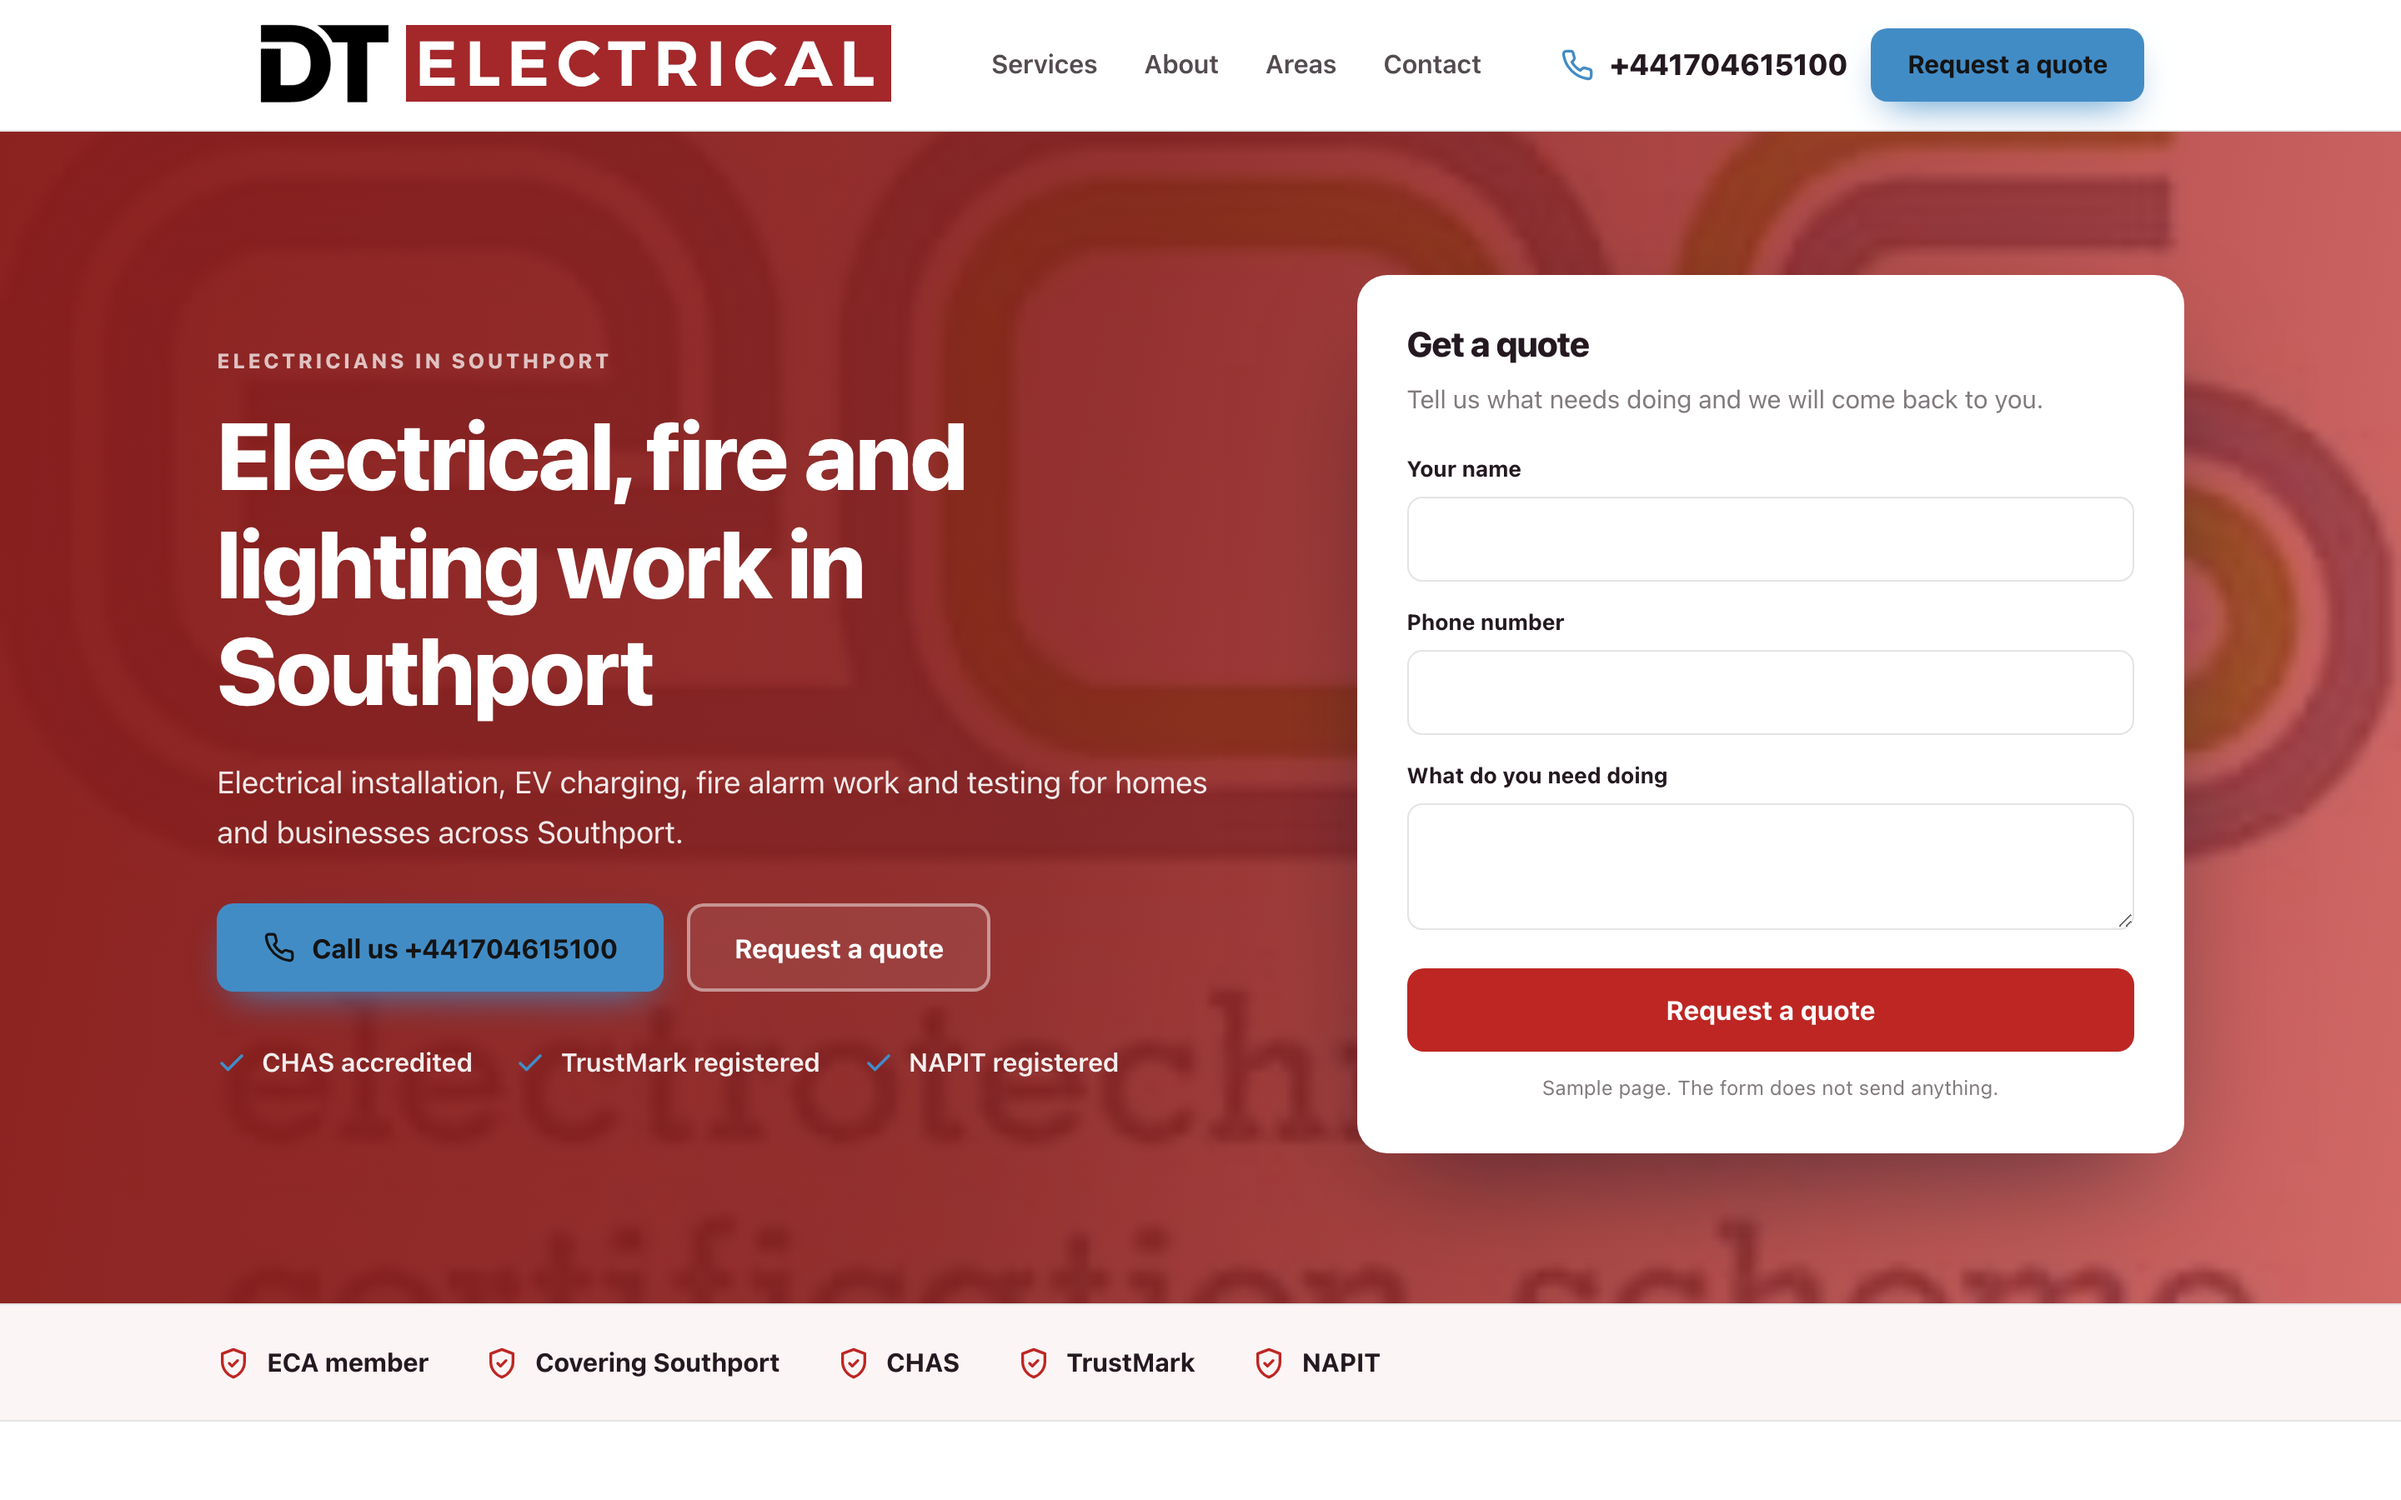
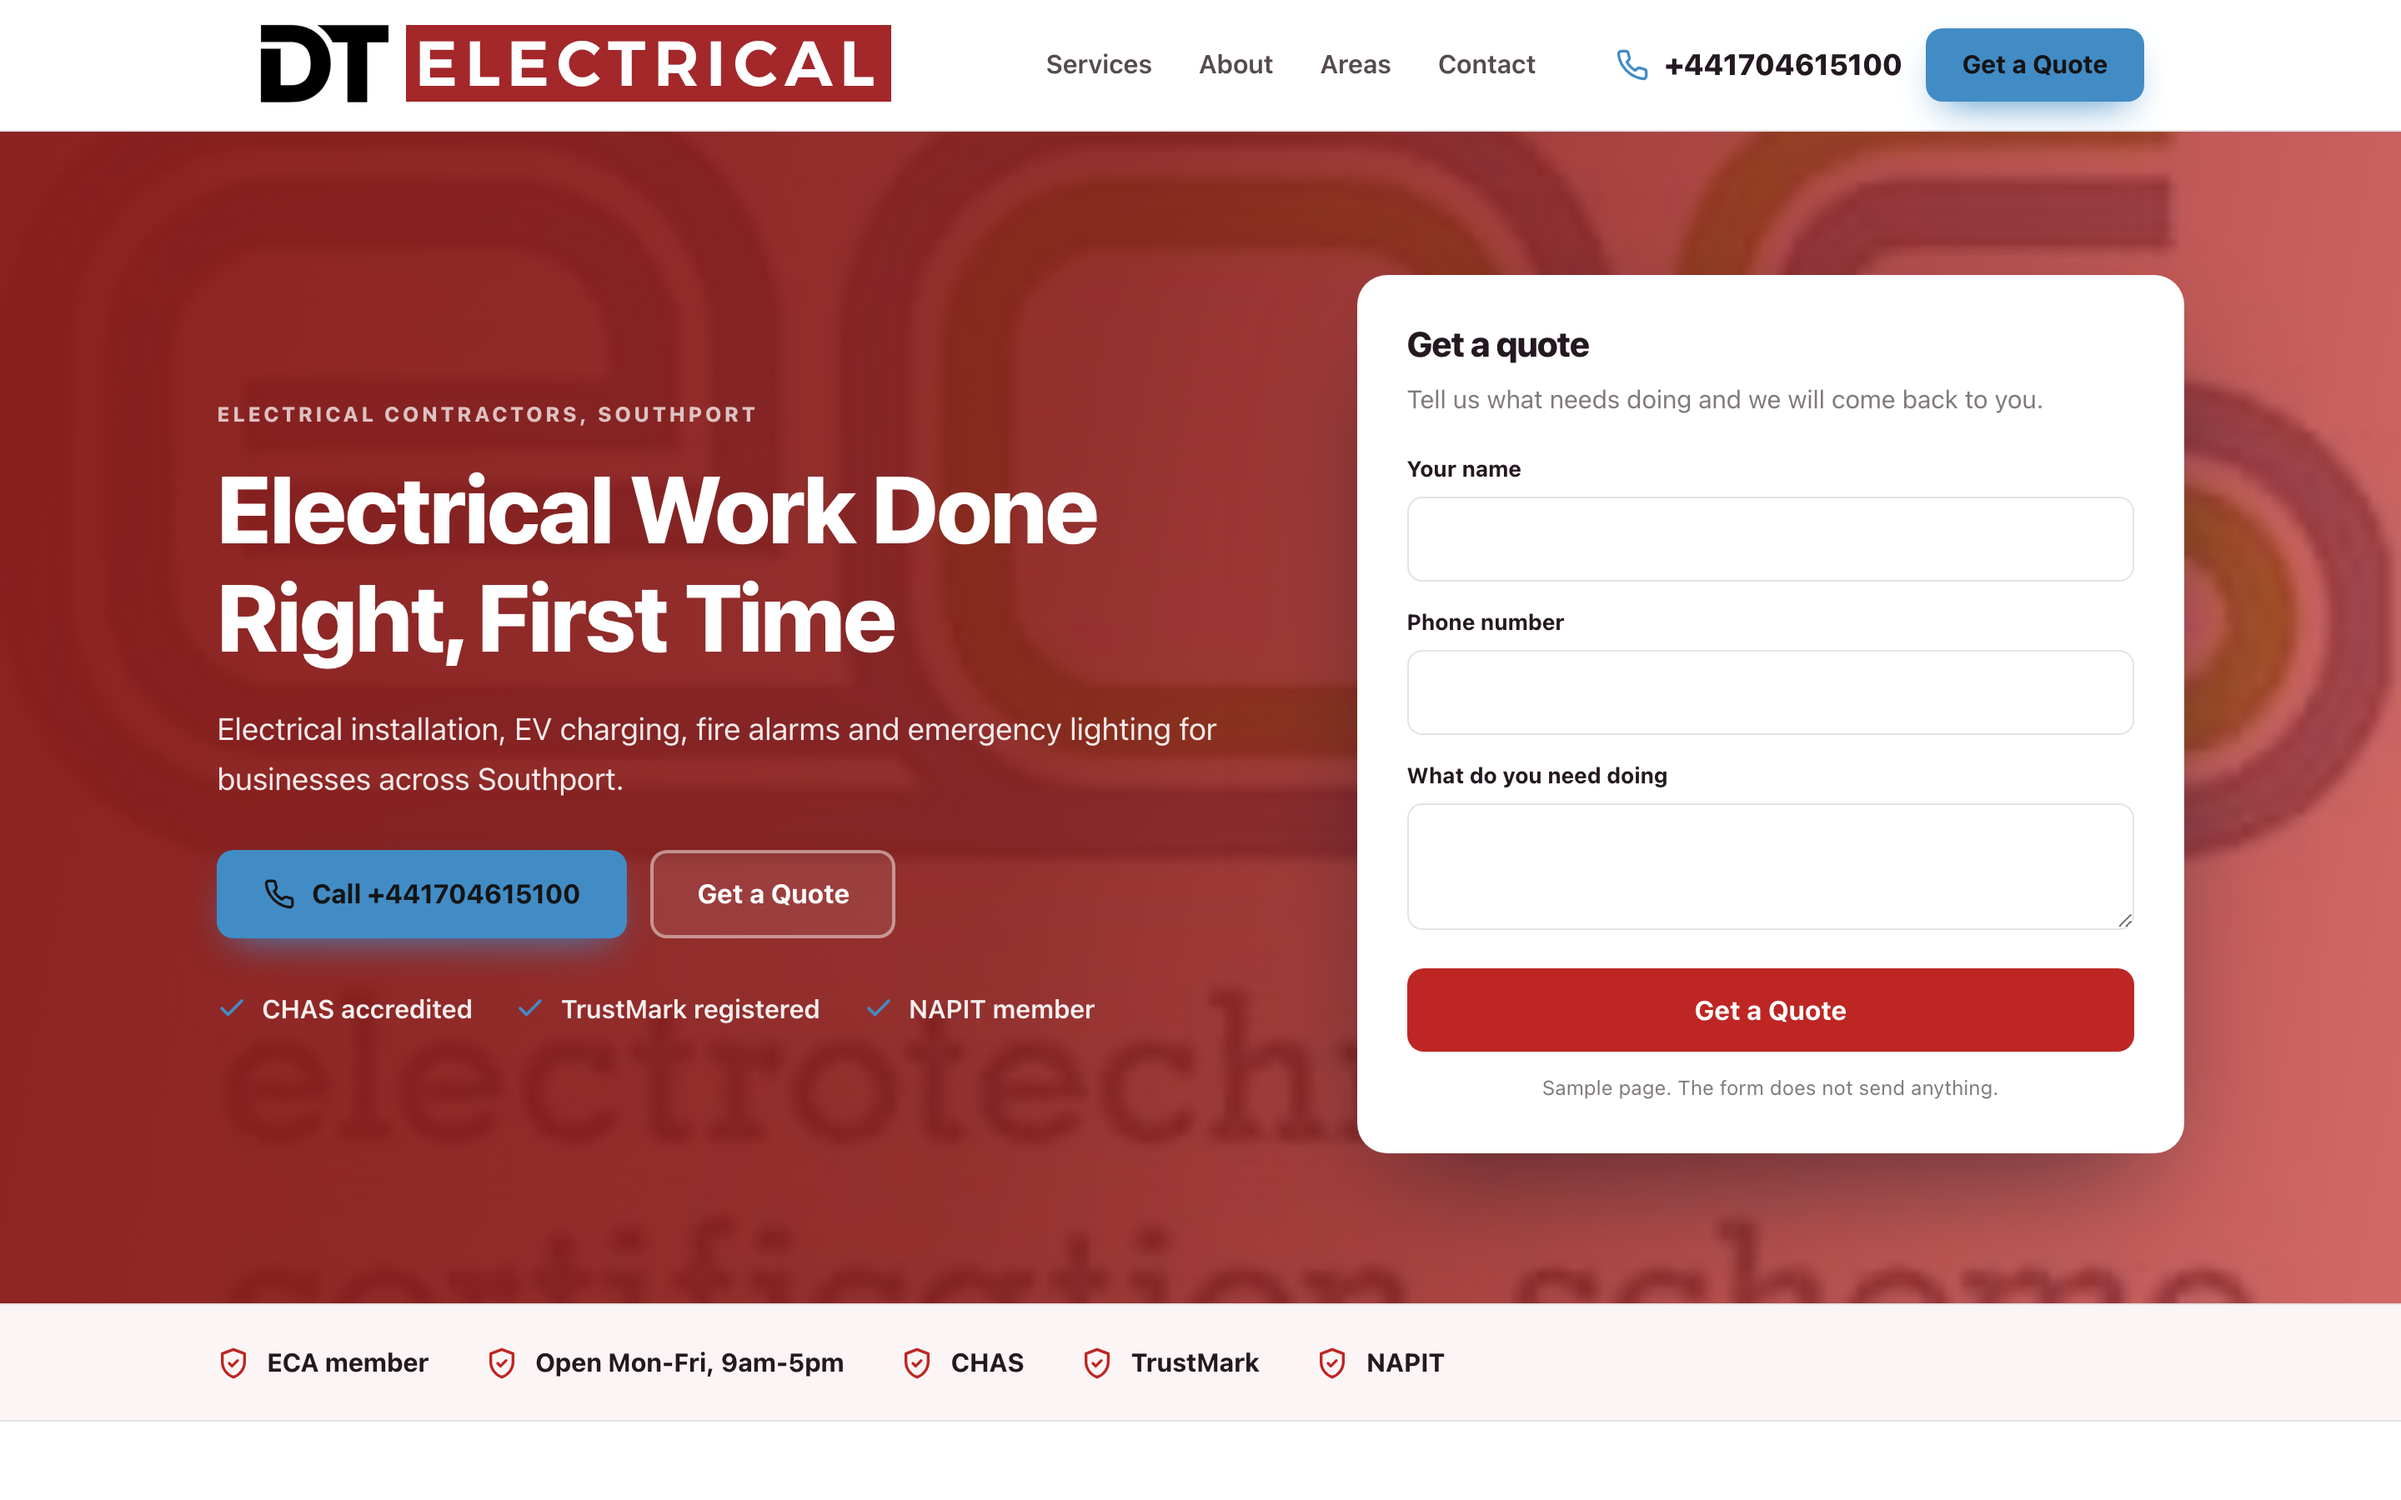
Sample homepage for DT Electrical

diff --git a/docs/f1c80b9496/index.html b/docs/f1c80b9496/index.html
@@ -4,14 +4,15 @@
 <meta charset="utf-8">
 <meta name="viewport" content="width=device-width, initial-scale=1">
 <meta name="robots" content="noindex,nofollow">
+<meta name="aso-build" content="">
 <title>DT Electrical sample homepage</title>
-<meta name="description" content="Electrical installation, EV charging, fire alarm work and testing for homes and businesses across Southport.">
+<meta name="description" content="Electrical installation, EV charging, fire alarms and emergency lighting for businesses across Southport.">
 <link rel="canonical" href="https://markygff.github.io/aso-mockups/f1c80b9496/">
 <meta property="og:type" content="website">
 <meta property="og:title" content="DT Electrical sample homepage">
-<meta property="og:description" content="Electrical installation, EV charging, fire alarm work and testing for homes and businesses across Southport.">
+<meta property="og:description" content="Electrical installation, EV charging, fire alarms and emergency lighting for businesses across Southport.">
 <meta property="og:url" content="https://markygff.github.io/aso-mockups/f1c80b9496/">
-<meta property="og:image" content="https://www.dtelectrical.net/assets/images/1.jpg"><style>
+<meta property="og:image" content="img/t00.jpg"><style>
 :root{
   --primary:#bd2623;
   --primary-dark:#881b19;
@@ -52,7 +53,8 @@ p{margin:0}
 .nav{display:flex;gap:28px;margin-left:auto;font-weight:600;font-size:.97rem;color:var(--ink)}
 .nav span{opacity:.78}
 .header-cta{display:flex;align-items:center;gap:14px;margin-left:28px}
-.tel{display:flex;align-items:center;gap:9px;font-weight:800;font-size:1.1rem;color:var(--ink)}
+.tel{display:flex;align-items:center;gap:9px;font-weight:800;font-size:1.1rem;
+     color:var(--ink);text-decoration:none}
 .tel svg{width:20px;height:20px;color:var(--accent)}
 .header-cta .btn{padding:12px 20px;font-size:.95rem}
 
@@ -119,30 +121,30 @@ p{margin:0}
 <header class="header">
   <div class="wrap header-in">
     <div class="brand">
-<img src="https://www.dtelectrical.net/assets/images/DTelec-weblogo.png" alt="DT Electrical logo">    </div>
+<img src="img/logo.png" alt="DT Electrical logo">    </div>
     <nav class="nav">
       <span>Services</span><span>About</span><span>Areas</span><span>Contact</span>
     </nav>
     <div class="header-cta">
-      <span class="tel"><svg viewBox="0 0 24 24" fill="none" stroke="currentColor" stroke-width="2" stroke-linecap="round" stroke-linejoin="round" aria-hidden="true"><path d="M22 16.9v3a2 2 0 0 1-2.2 2 19.8 19.8 0 0 1-8.6-3.1 19.5 19.5 0 0 1-6-6 19.8 19.8 0 0 1-3.1-8.7A2 2 0 0 1 4.1 2h3a2 2 0 0 1 2 1.7c.1 1 .4 1.9.7 2.8a2 2 0 0 1-.5 2.1L8.1 9.9a16 16 0 0 0 6 6l1.3-1.2a2 2 0 0 1 2.1-.5c.9.3 1.8.6 2.8.7a2 2 0 0 1 1.7 2z"/></svg><span>+441704615100</span></span>
-      <span class="btn btn-accent">Request a quote</span>
+      <a class="tel" href="tel:+441704615100"><svg viewBox="0 0 24 24" fill="none" stroke="currentColor" stroke-width="2" stroke-linecap="round" stroke-linejoin="round" aria-hidden="true"><path d="M22 16.9v3a2 2 0 0 1-2.2 2 19.8 19.8 0 0 1-8.6-3.1 19.5 19.5 0 0 1-6-6 19.8 19.8 0 0 1-3.1-8.7A2 2 0 0 1 4.1 2h3a2 2 0 0 1 2 1.7c.1 1 .4 1.9.7 2.8a2 2 0 0 1-.5 2.1L8.1 9.9a16 16 0 0 0 6 6l1.3-1.2a2 2 0 0 1 2.1-.5c.9.3 1.8.6 2.8.7a2 2 0 0 1 1.7 2z"/></svg><span>+441704615100</span></a>
+      <span class="btn btn-accent">Get a Quote</span>
     </div>
   </div>
 </header>
 
 <section class="hero">
-  <div class="hero-bg"><img src="https://www.dtelectrical.net/assets/images/1.jpg" alt="footer logo" width="1600" height="900"></div>
+  <div class="hero-bg"><img src="img/t00.jpg" alt="footer logo" width="1600" height="900"></div>
   <div class="wrap hero-in">
     <div>
-      <p class="eyebrow">Electricians in Southport</p>
-      <h1>Electrical, fire and lighting work in Southport</h1>
-      <p class="hero-sub">Electrical installation, EV charging, fire alarm work and testing for homes and businesses across Southport.</p>
+      <p class="eyebrow">Electrical Contractors, Southport</p>
+      <h1>Electrical Work Done Right, First Time</h1>
+      <p class="hero-sub">Electrical installation, EV charging, fire alarms and emergency lighting for businesses across Southport.</p>
       <div class="hero-actions">
-        <span class="btn btn-accent"><svg viewBox="0 0 24 24" fill="none" stroke="currentColor" stroke-width="2" stroke-linecap="round" stroke-linejoin="round" aria-hidden="true"><path d="M22 16.9v3a2 2 0 0 1-2.2 2 19.8 19.8 0 0 1-8.6-3.1 19.5 19.5 0 0 1-6-6 19.8 19.8 0 0 1-3.1-8.7A2 2 0 0 1 4.1 2h3a2 2 0 0 1 2 1.7c.1 1 .4 1.9.7 2.8a2 2 0 0 1-.5 2.1L8.1 9.9a16 16 0 0 0 6 6l1.3-1.2a2 2 0 0 1 2.1-.5c.9.3 1.8.6 2.8.7a2 2 0 0 1 1.7 2z"/></svg>Call us +441704615100</span>
-        <span class="btn btn-ghost">Request a quote</span>
+        <span class="btn btn-accent"><svg viewBox="0 0 24 24" fill="none" stroke="currentColor" stroke-width="2" stroke-linecap="round" stroke-linejoin="round" aria-hidden="true"><path d="M22 16.9v3a2 2 0 0 1-2.2 2 19.8 19.8 0 0 1-8.6-3.1 19.5 19.5 0 0 1-6-6 19.8 19.8 0 0 1-3.1-8.7A2 2 0 0 1 4.1 2h3a2 2 0 0 1 2 1.7c.1 1 .4 1.9.7 2.8a2 2 0 0 1-.5 2.1L8.1 9.9a16 16 0 0 0 6 6l1.3-1.2a2 2 0 0 1 2.1-.5c.9.3 1.8.6 2.8.7a2 2 0 0 1 1.7 2z"/></svg>Call +441704615100</span>
+        <span class="btn btn-ghost">Get a Quote</span>
       </div>
       <ul class="hero-bullets">
-<li><svg viewBox="0 0 24 24" fill="none" stroke="currentColor" stroke-width="2.4" stroke-linecap="round" stroke-linejoin="round" aria-hidden="true"><path d="M20 6 9 17l-5-5"/></svg><span>CHAS accredited</span></li><li><svg viewBox="0 0 24 24" fill="none" stroke="currentColor" stroke-width="2.4" stroke-linecap="round" stroke-linejoin="round" aria-hidden="true"><path d="M20 6 9 17l-5-5"/></svg><span>TrustMark registered</span></li><li><svg viewBox="0 0 24 24" fill="none" stroke="currentColor" stroke-width="2.4" stroke-linecap="round" stroke-linejoin="round" aria-hidden="true"><path d="M20 6 9 17l-5-5"/></svg><span>NAPIT registered</span></li>      </ul>
+<li><svg viewBox="0 0 24 24" fill="none" stroke="currentColor" stroke-width="2.4" stroke-linecap="round" stroke-linejoin="round" aria-hidden="true"><path d="M20 6 9 17l-5-5"/></svg><span>CHAS accredited</span></li><li><svg viewBox="0 0 24 24" fill="none" stroke="currentColor" stroke-width="2.4" stroke-linecap="round" stroke-linejoin="round" aria-hidden="true"><path d="M20 6 9 17l-5-5"/></svg><span>TrustMark registered</span></li><li><svg viewBox="0 0 24 24" fill="none" stroke="currentColor" stroke-width="2.4" stroke-linecap="round" stroke-linejoin="round" aria-hidden="true"><path d="M20 6 9 17l-5-5"/></svg><span>NAPIT member</span></li>      </ul>
     </div>
     <div class="quote-card">
       <h3>Get a quote</h3>
@@ -150,7 +152,7 @@ p{margin:0}
       <div class="field"><label>Your name</label><input type="text" disabled></div>
       <div class="field"><label>Phone number</label><input type="tel" disabled></div>
       <div class="field"><label>What do you need doing</label><textarea disabled></textarea></div>
-      <span class="btn btn-primary">Request a quote</span>
+      <span class="btn btn-primary">Get a Quote</span>
       <p class="sample-note">Sample page. The form does not send anything.</p>
     </div>
   </div>
@@ -159,7 +161,7 @@ p{margin:0}
 <div class="strip">
   <div class="wrap strip-in">
     <div class="strip-item"><svg viewBox="0 0 24 24" fill="none" stroke="currentColor" stroke-width="2" stroke-linecap="round" stroke-linejoin="round" aria-hidden="true"><path d="M12 2 4 5v6c0 5 3.4 9.4 8 11 4.6-1.6 8-6 8-11V5z"/><path d="m9 12 2 2 4-4"/></svg><span>ECA member</span></div>
-    <div class="strip-item"><svg viewBox="0 0 24 24" fill="none" stroke="currentColor" stroke-width="2" stroke-linecap="round" stroke-linejoin="round" aria-hidden="true"><path d="M12 2 4 5v6c0 5 3.4 9.4 8 11 4.6-1.6 8-6 8-11V5z"/><path d="m9 12 2 2 4-4"/></svg><span>Covering Southport</span></div>
+    <div class="strip-item"><svg viewBox="0 0 24 24" fill="none" stroke="currentColor" stroke-width="2" stroke-linecap="round" stroke-linejoin="round" aria-hidden="true"><path d="M12 2 4 5v6c0 5 3.4 9.4 8 11 4.6-1.6 8-6 8-11V5z"/><path d="m9 12 2 2 4-4"/></svg><span>Open Mon-Fri, 9am-5pm</span></div>
     <div class="strip-item"><svg viewBox="0 0 24 24" fill="none" stroke="currentColor" stroke-width="2" stroke-linecap="round" stroke-linejoin="round" aria-hidden="true"><path d="M12 2 4 5v6c0 5 3.4 9.4 8 11 4.6-1.6 8-6 8-11V5z"/><path d="m9 12 2 2 4-4"/></svg><span>CHAS</span></div>
     <div class="strip-item"><svg viewBox="0 0 24 24" fill="none" stroke="currentColor" stroke-width="2" stroke-linecap="round" stroke-linejoin="round" aria-hidden="true"><path d="M12 2 4 5v6c0 5 3.4 9.4 8 11 4.6-1.6 8-6 8-11V5z"/><path d="m9 12 2 2 4-4"/></svg><span>TrustMark</span></div>
     <div class="strip-item"><svg viewBox="0 0 24 24" fill="none" stroke="currentColor" stroke-width="2" stroke-linecap="round" stroke-linejoin="round" aria-hidden="true"><path d="M12 2 4 5v6c0 5 3.4 9.4 8 11 4.6-1.6 8-6 8-11V5z"/><path d="m9 12 2 2 4-4"/></svg><span>NAPIT</span></div>
@@ -171,28 +173,28 @@ p{margin:0}
     <div class="services-head">
       <p class="eyebrow">What we do</p>
       <h2>DT Electrical, Southport</h2>
-      <p>Electrical installation, EV charging, fire alarm work and testing for homes and businesses across Southport.</p>
+      <p>Electrical installation, EV charging, fire alarms and emergency lighting for businesses across Southport.</p>
     </div>
     <div class="grid">
       <article class="card">
         <div class="icon"><svg viewBox="0 0 24 24" fill="none" stroke="currentColor" stroke-width="2" stroke-linecap="round" stroke-linejoin="round" aria-hidden="true"><path d="M14.7 6.3a4 4 0 0 0 5.3 5.3l-8 8a3 3 0 0 1-4.2-4.2z"/><path d="m14.7 6.3 3-3"/></svg></div>
         <h3>Electrical Installation</h3>
-        <p>We handle wiring and installations for homes and businesses.</p>
+        <p>Electrical installation work carried out to a proper standard.</p>
       </article>
       <article class="card">
         <div class="icon"><svg viewBox="0 0 24 24" fill="none" stroke="currentColor" stroke-width="2" stroke-linecap="round" stroke-linejoin="round" aria-hidden="true"><path d="M13 2 4 14h7l-1 8 9-12h-7z"/></svg></div>
         <h3>Electric Vehicle Charging</h3>
-        <p>We fit EV charge points at home or at work.</p>
+        <p>EV charge points fitted for homes and businesses.</p>
       </article>
       <article class="card">
         <div class="icon"><svg viewBox="0 0 24 24" fill="none" stroke="currentColor" stroke-width="2" stroke-linecap="round" stroke-linejoin="round" aria-hidden="true"><path d="M3 10.5 12 3l9 7.5"/><path d="M5 9.5V21h14V9.5"/><path d="M10 21v-6h4v6"/></svg></div>
-        <h3>Fixed Wire Testing (EICR)</h3>
-        <p>We test your wiring and give you an EICR report.</p>
+        <h3>Fire Alarm Design and Installation</h3>
+        <p>Fire alarm systems designed and fitted for your building.</p>
       </article>
       <article class="card">
         <div class="icon"><svg viewBox="0 0 24 24" fill="none" stroke="currentColor" stroke-width="2" stroke-linecap="round" stroke-linejoin="round" aria-hidden="true"><path d="M4 20 15 9"/><path d="m14 4 6 6-3 3-6-6z"/><path d="m3 15 6 6"/></svg></div>
-        <h3>Fire Alarm Maintenance</h3>
-        <p>We keep your fire alarms serviced and working.</p>
+        <h3>Emergency Lighting</h3>
+        <p>Emergency lighting fitted and kept compliant.</p>
       </article>
     </div>
   </div>
